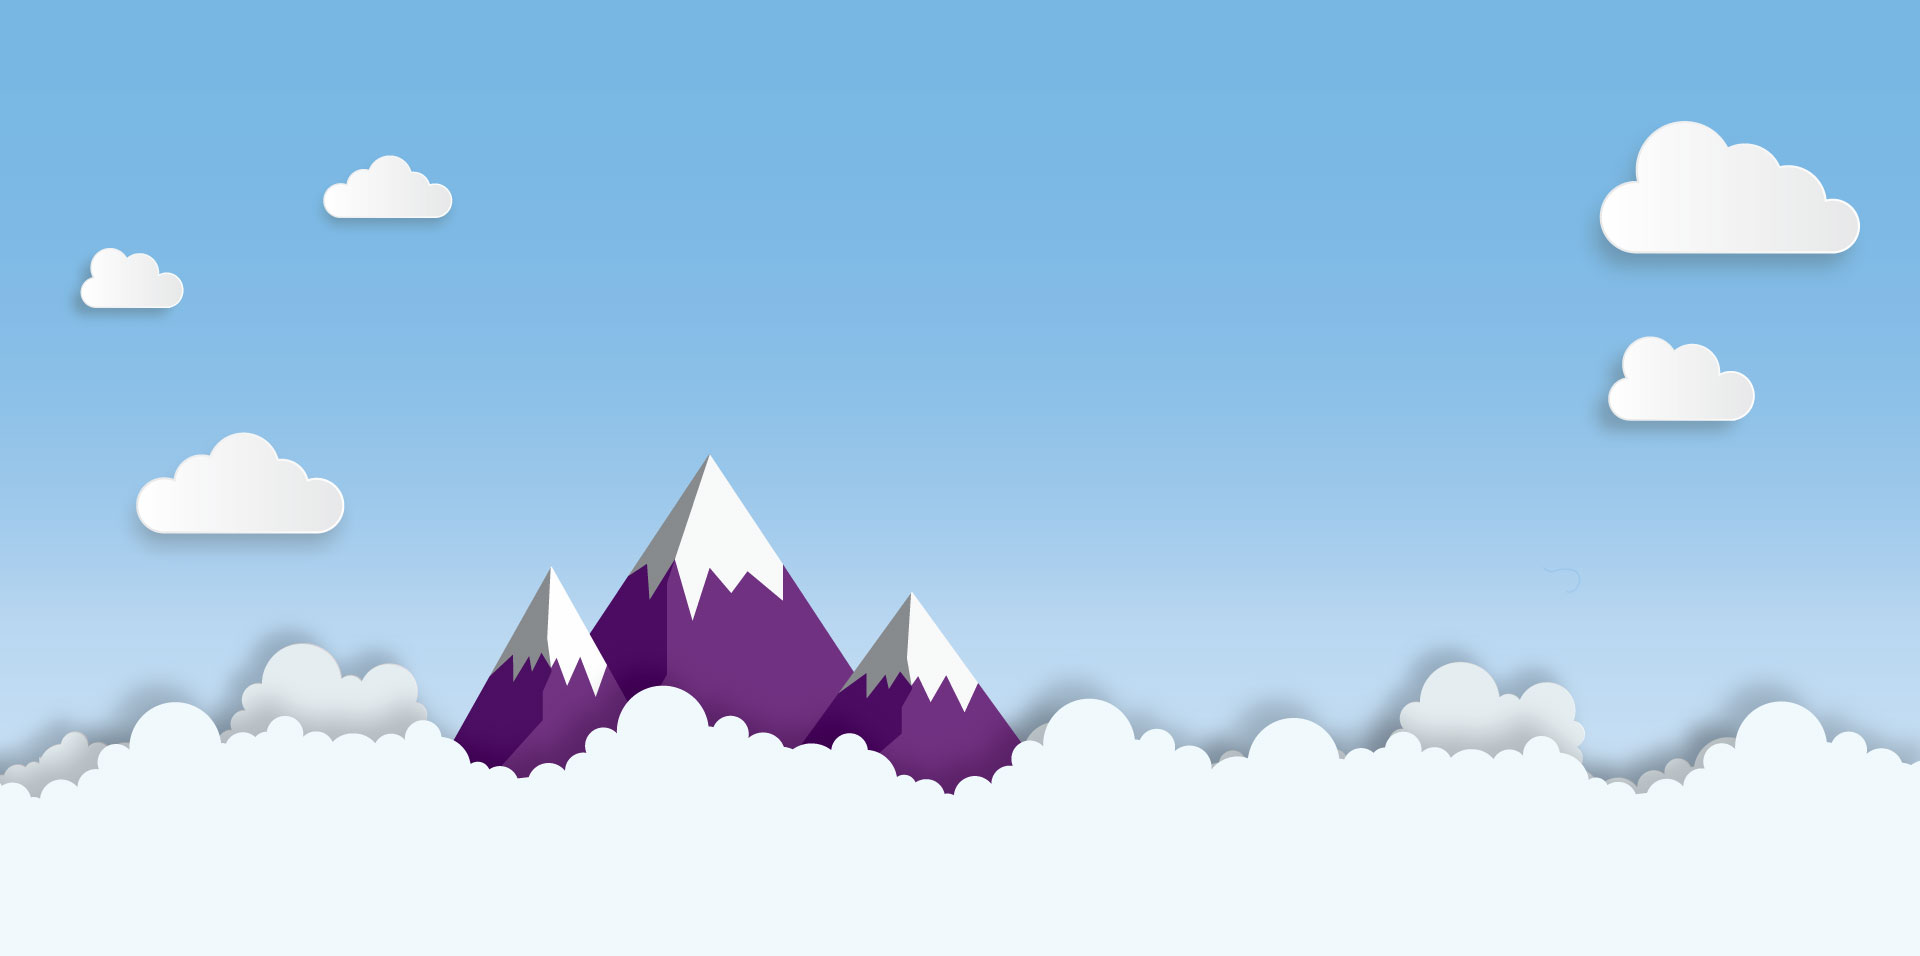
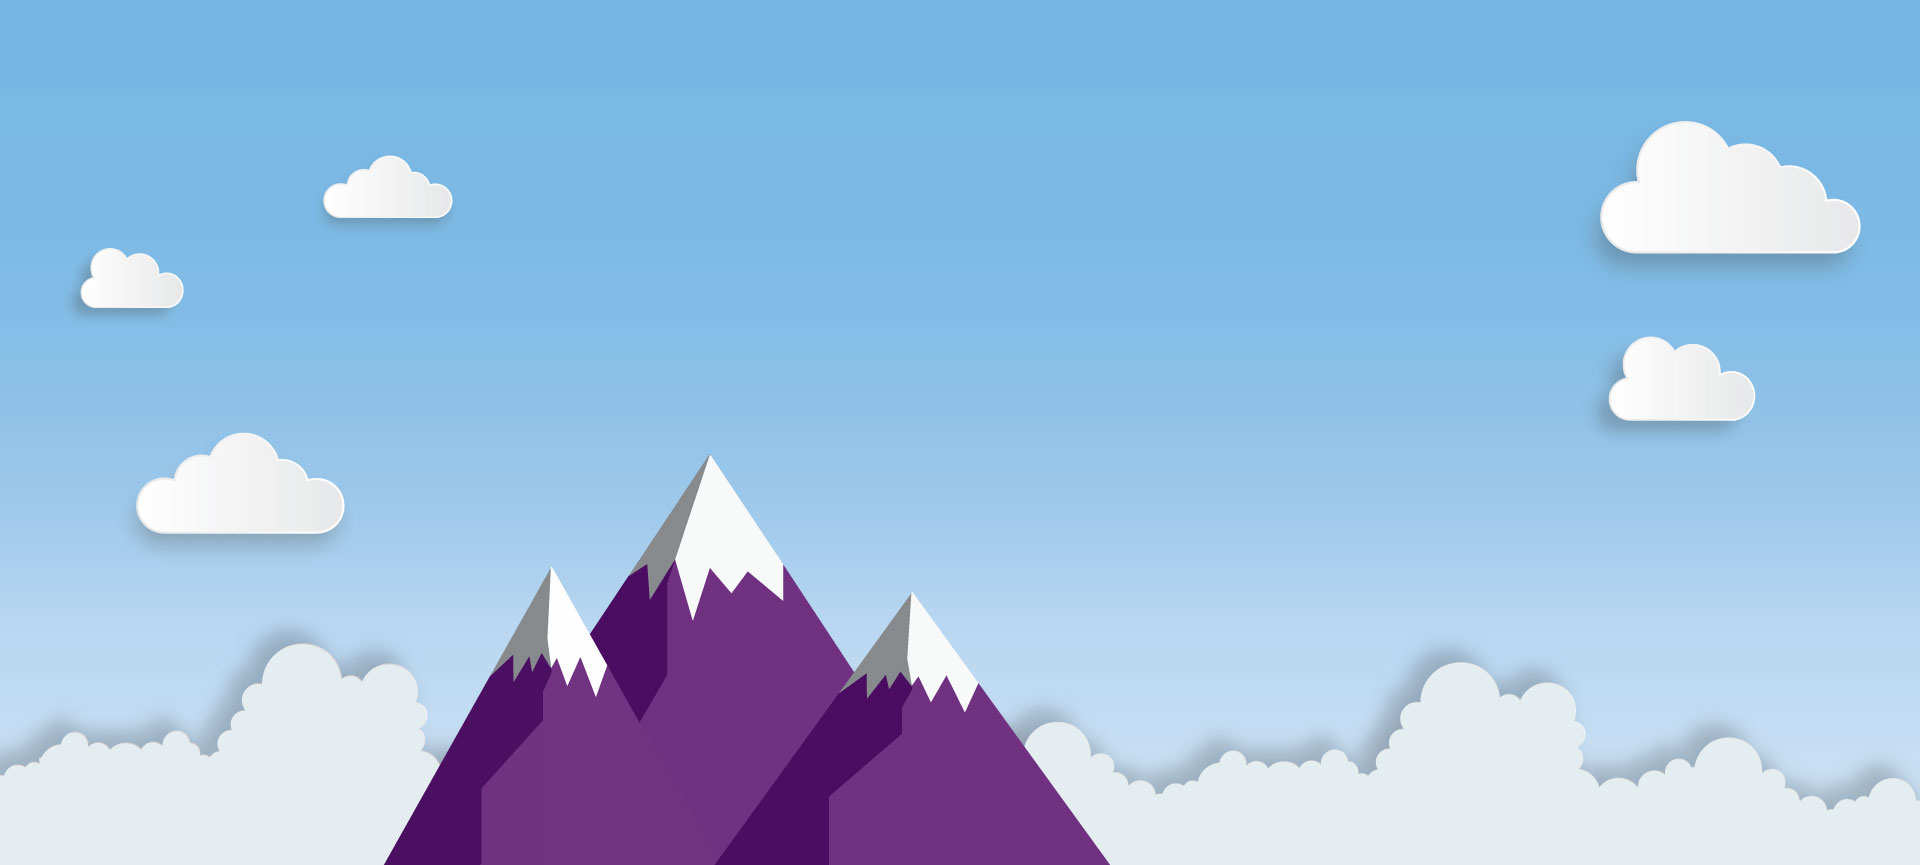
more attempts at making it work

diff --git a/new-two.html b/new-two.html
@@ -108,45 +108,38 @@ e.async=true;var t=document.getElementsByTagName("script")[0];t.parentNode.inser
 	line-height: 38px;
 }
 .background-wrapper {
-	background: #fff url(skyscape.jpg) bottom center/cover;
-	min-height: 900px;
+	background: #fff url("skyscape.jpg") bottom center/cover;
+	min-height: 950px;
 }
-.clouds {
+.cloud-row {
+	background: transparent url("clouds.png") top center/cover;
+	min-height: 153px;
 
 }
 .love-row {
 	background: #f0f9fc;
-	padding: 5px 15px 60px;
+
 }
+	.container-fluid {
+		background: #f0f9fc;
+	}
 .v-one-wrapper {
-	background: url("val-one.png") top left no-repeat;
-	min-height: 460px;
-	padding: 278px 0 0 41px;
+
 }
 .v-two-wrapper {
-	background: url("val-two.png") top left no-repeat;
-	min-height: 475px;
-	padding: 267px 0 0 50px;
+
 }
 .v-three-wrapper {
-	background: url("val-three.png") top left no-repeat;
-	min-height: 460px;
-	padding: 278px 0 0 41px;
+
 }
 .v-one {
-	transform: rotate(-12deg);
-	-webkit-backface-visibility: hidden;
-	max-width: 155px;
+
 }
 .v-two {
-	transform: rotate(24deg);
-	-webkit-backface-visibility: hidden;
-	max-width: 150px;
+
 }
 .v-three {
-	transform: rotate(-14deg);
-	-webkit-backface-visibility: hidden;
-	max-width: 155px;
+
 }
 .grow-text a {
 	color: #666;
@@ -169,6 +162,7 @@ e.async=true;var t=document.getElementsByTagName("script")[0];t.parentNode.inser
 .amsterdam {
 	font-size: 80px;
 	line-height: 50px;
+
 }
 }
 </style>
@@ -356,25 +350,22 @@ height="0" width="0" style="display:none;visibility:hidden"></iframe>
     <div class="container text-center">
       <div class="col-md-4">
         <div class="v-one-wrapper">
-          <div class="king v-one"><a href="https://dcl.store/">Dear Valentine,<br>
-            Sending Love & Treats. Be Mine?</a></div>
+          <div class="king v-one"><a href="https://dcl.store/"><img src="be-mine.png" alt="Be Mine"></a></div>
         </div>
       </div>
       <div class="col-md-4">
         <div class="v-two-wrapper">
-          <div class="king v-two"><a href="authors-events/#other-author-events">Mom,<br>
-            Camp DCL is cool! Thanks for sending me.</a></div>
+          <div class="king v-two"><a href="camp-dcl/"><img src="camp-dcl.png" alt="Camp DCL"></a></div>
         </div>
       </div>
       <div class="col-md-4">
         <div class="v-three-wrapper">
-          <div class="king v-three"><a href="camp-dcl/">Darling,<br>
-            You + Me = A Great Love Story </a></div>
+          <div class="king v-three"><a href="#"><img src="love-story.png" alt="Love Stories"></a></div>
         </div>
       </div>
     </div>
-  </div>
-	    <div class="love-row">
+	</div><div class="row cloud-row"></div>
+	    <div class="row love-row">
       <div class="container text-center">
         <div>
           <div class="amsterdam">love connection</div>
